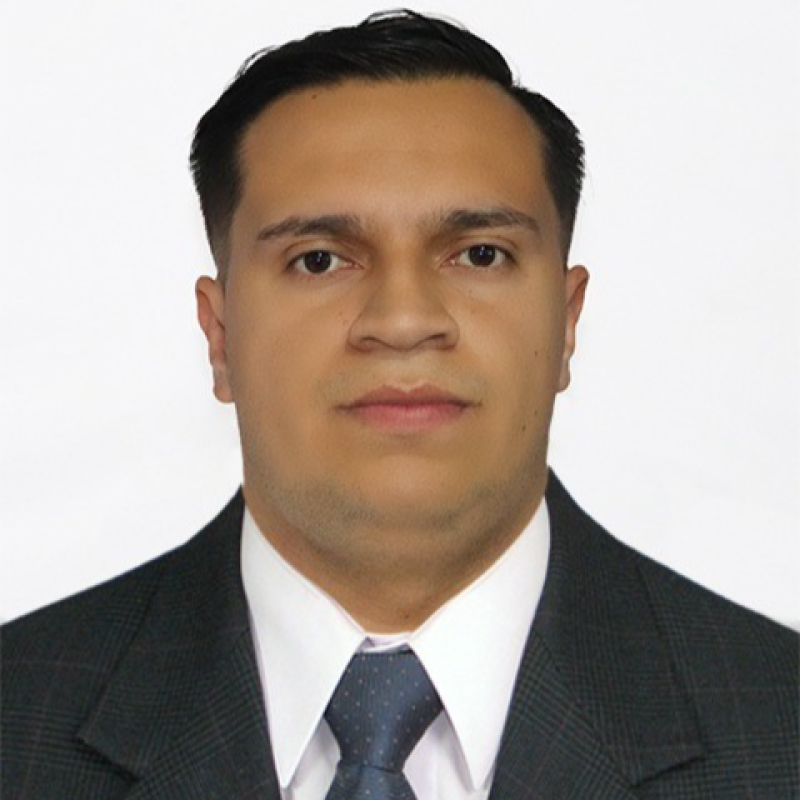
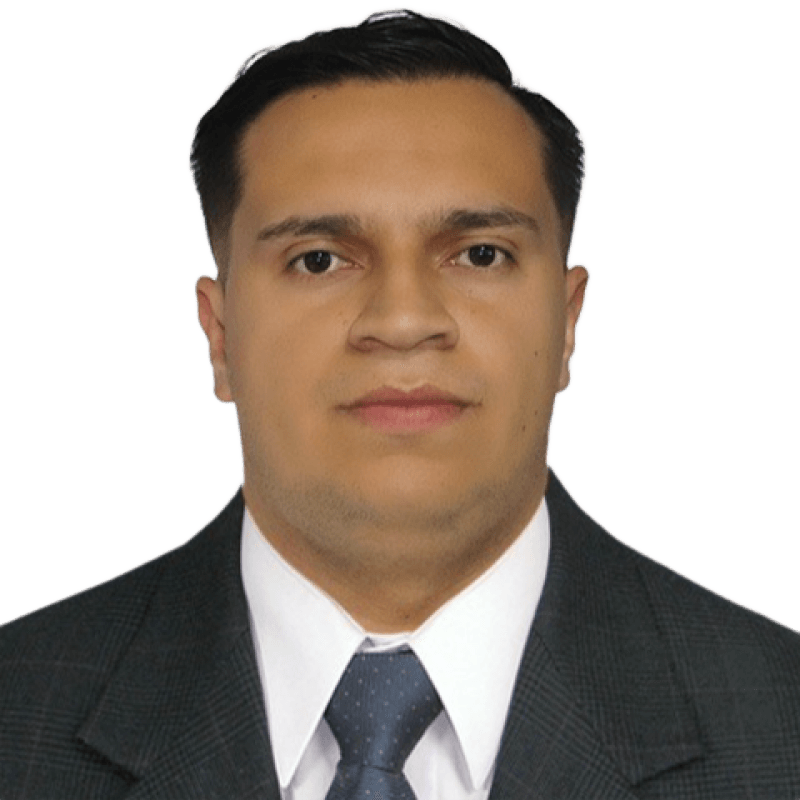
feat(profile): remove photo background

diff --git a/odd/tasks/portfolio-astro.md b/odd/tasks/portfolio-astro.md
@@ -63,5 +63,7 @@ with its own E2E tests and CI, doubles as evidence of the owner's QA automation 
 - RDD review (range bd8d3c2..91bb9e5): assessed `medium` (package-lock config), `slice_budget_reached` (497 lines); consent granted; 1 lens (reliability) → `approved`, 0 blocking; acknowledged, lineage `review-b4c40d2617cca142`, authority burned. Reviewed boundary is now `91bb9e5`. Advisory: avatar initials fallback untested (`Avatar.astro:47-50`).
 - T7 follow-up (2026-10-03, inline): `src/assets/profile.png` replaced with the user-supplied 800x800 original (was 237x191 from the PDF). `npm run build` complete (optimized `profile.*.webp` 22.7 KB); E2E against the production preview (port 4322) → 23 passed.
 
+- T7 follow-up 2 (2026-10-03, inline): background removed from the profile photo with `@imgly/background-removal-node` (installed in the session scratchpad only, not a project dependency); transparent 800x800 PNG. Checked visually in dark and light themes. `npm run build` complete; E2E on production preview (port 4322) → 23 passed.
+
 ## Next step
 All tasks done locally. Pending user decisions: add a remote, set the real `site` URL in `astro.config.mjs` (placeholder `https://leixerm.github.io`), push / PR / deploy. Photo source is only 237x191 px (as embedded in the CV); a higher-resolution original would sharpen the hero portrait.
